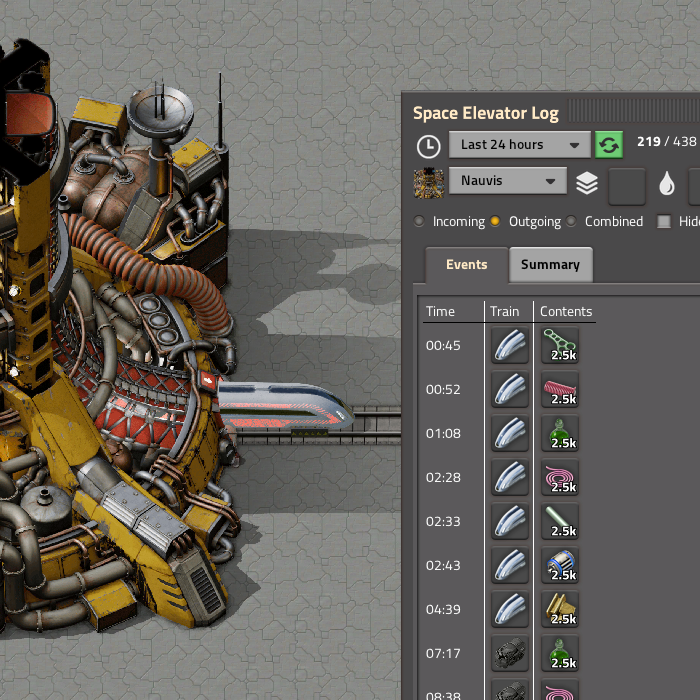
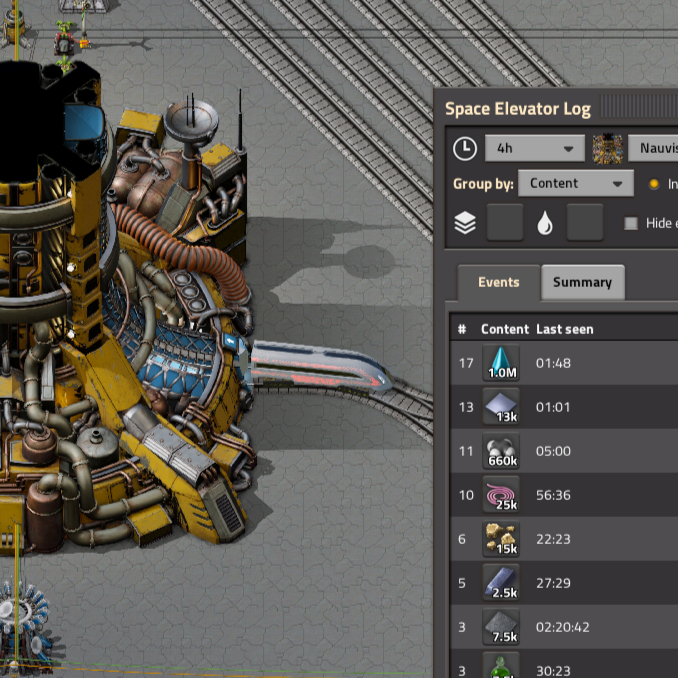
Release 0.5.0

diff --git a/README.md b/README.md
@@ -19,7 +19,6 @@ Display stats and records of trains travelling through Space Exploration's space
 
 ## Upcoming
 
-- GUI Overhaul
 - Group by train group
 - Icon overlay to distinguish incoming and outgoing trains
 
